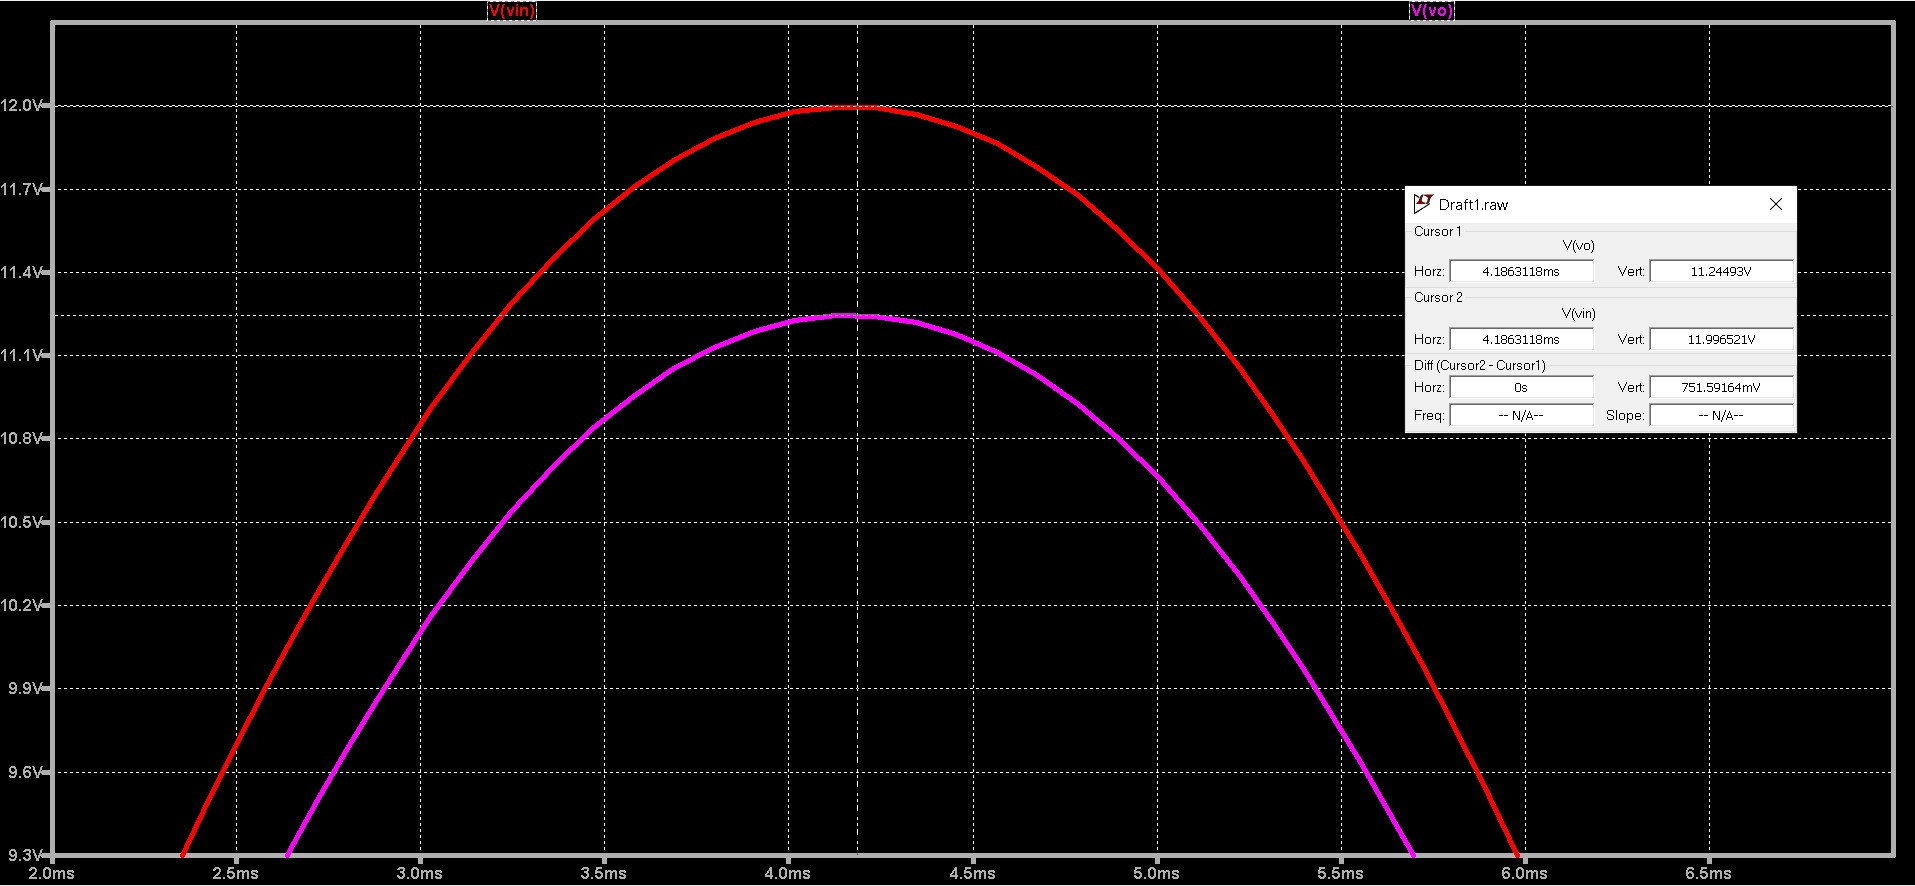
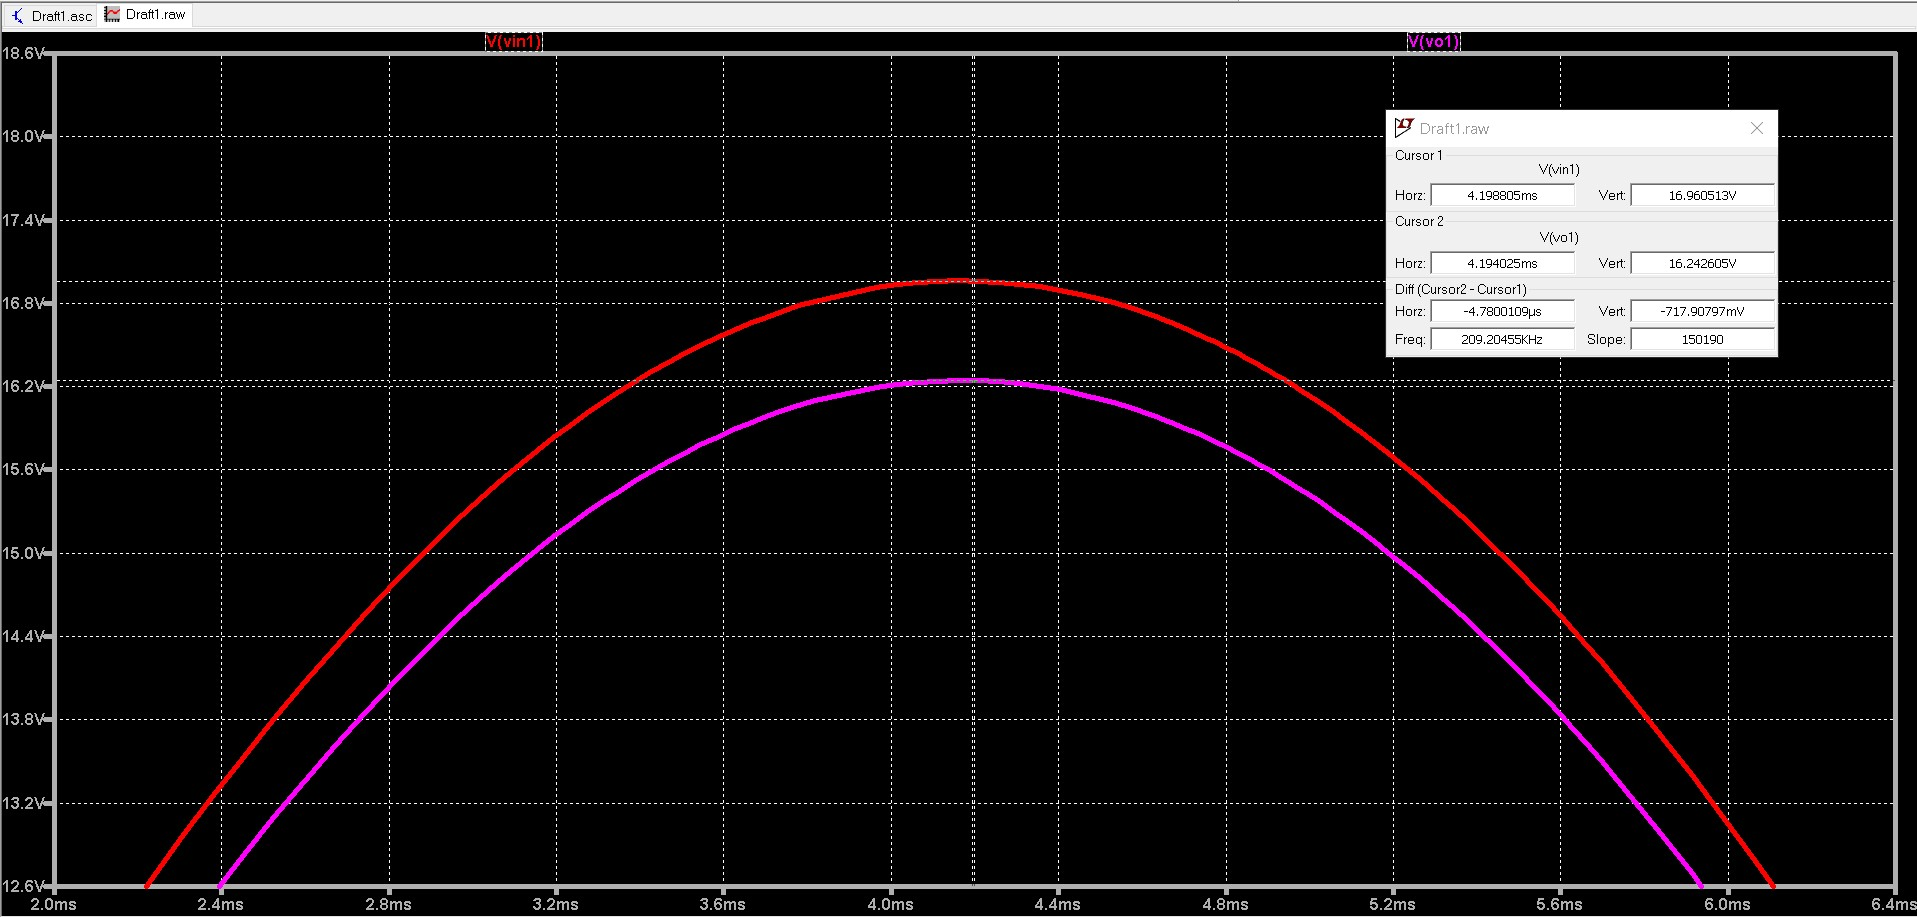
corrigida tensão de entrada na parte 1 do relatório 2

diff --git a/Relatório 2/parte1.md b/Relatório 2/parte1.md
@@ -1,6 +1,6 @@
 # Relatório 2 - Diodos
 
-## Parte 1: Circuito Retificador de Meia Onda
+## Parte 1a: Circuito Retificador de Meia Onda
 
 ###### Experimento:
 
@@ -28,82 +28,73 @@ Utilizar fonte de tensão alternada 12Vp e 60 Hz.
 
 ![p1onda1](/resources/images/relat2/p1onda1.jpg)
 
-#### Formato de onda da tensão no enrolamento secundário (Vin) e da tensão sobre o resistor (Vo)
-
+#### Formato de onda da tensão sobre o resistor (Vo1) e da tensão no enrolamento secundário (Vin1)
+![p1onda2](/resources/images/relat2/p1v01.jpg)
 ![p1onda2](/resources/images/relat2/p1onda2.jpg)
 ![p1onda21](/resources/images/relat2/p1onda21.jpg)
 
-É possível perceber que a onda Vo tem amplitude um pouco menor do que a onda Vin. Isso acontece por conta da queda de tensão de 7,6V sobre o diodo para que o mesmo seja polarizado diretamente. O valor do sinal de tensão Vo é zero nos ciclos negativos de Vin por conta da polarização inversa do diodo.
+É possível perceber que a onda Vo1 tem amplitude um pouco menor do que a onda Vin1. Isso acontece por conta da queda de tensão sobre o diodo, neste caso cerca de 0,72V (pico), para que o mesmo seja polarizado diretamente. O valor do sinal de tensão Vo1 é zero nos ciclos negativos de Vin por conta da polarização inversa do diodo.
 
-#### Valores de tensão média e eficaz sobre o enrolamento secundário (Vin) e o resistor (Vo)
-![p1onda3](/resources/images/relat2/p1onda3.jpg)
-![p1onda31](/resources/images/relat2/p1onda31.jpg)
-
-#### Preenchimento da tabela com os valores solicitados
-![p1tabela1](/resources/images/relat2/p1tabela1.jpg)
+#### Valores de tensão média e eficaz sobre o enrolamento secundário (Vin1) e o resistor (Vo1)
+![p1](/resources/images/relat2/p1media1.jpg)
 
 #### Formato de onda da corrente sobre o diodo (D1)
-![p1onda4](/resources/images/relat2/p1onda4.jpg)
-![p1onda41](/resources/images/relat2/p1onda41.jpg)
+![p1onda4](/resources/images/relat2/p1corrente1.jpg)
+![p1onda41](/resources/images/relat2/p1media2.jpg)
 
-O valor máximo da corrente foi de 41,65mA, o valor médio foi de 12,81mA e o valor eficaz foi de 28,48mA.
+O valor máximo da corrente foi de 60,14mA, o valor médio foi de 18,74mA e o valor eficaz foi de 29,76mA.
 
 ### Simulação: Circuito retificador de meia onda com capacitor de 330μF
 O diodo utilizado nas simulações foi o disponibilizado pelo próprio LTspice.
 ![p1circ2](/resources/images/relat2/p1circ2.jpg)
 
-#### Formato de onda da tensão no enrolamento secundário (Vin) e da tensão sobre o resistor (Vo)
-![p1onda5](/resources/images/relat2/p1onda5.jpg)
-![p1onda6](/resources/images/relat2/p1onda6.jpg)
+#### Formato de onda da tensão no enrolamento secundário (Vin2) e da tensão sobre o resistor (Vo2)
+![p1onda5](/resources/images/relat2/p1onda3.jpg)
+![p1onda6](/resources/images/relat2/p1onda4.jpg)
 
-A adição do capacitor no circuito faz com que a taxa de variação da tensão Vo sobre o resistor diminua consideravelmente.
+A adição do capacitor no circuito faz com que a taxa de variação da tensão Vo sobre o resistor diminua consideravelmente, quando comparado com o circuito sem capacitor.
 
-No ciclo positivo de Vin o capacitor é carregado, e então no seu ciclo negativo o capacitor vai descarregando fazendo com que a tensão sobre o resistor não seja zero (como foi visto no circuito anterior). Quando Vin entrar no ciclo positivo o capacitor vai começar a carregar novamente.
+No ciclo positivo de Vin o capacitor é carregado, e então no seu ciclo negativo o capacitor vai descarregando, fazendo com que a tensão sobre o resistor não seja zero. Quando Vin entra no ciclo positivo o capacitor começa a carregar novamente.
 
-A diferença entre a tensão máxima de Vo e a tensão de Vo quando o capacitor começa a carregar novamente é a tensão de ripple. Nesse caso a tensão de ripple é de 1,73V.
+A diferença entre a tensão máxima de Vo e a tensão de Vo quando o capacitor começa a carregar novamente é a tensão de ripple. Nesse caso a tensão de ripple é de 2,5V.
 
-#### Valores de tensão média e eficaz sobre o resistor (Vo)
-![p1onda7](/resources/images/relat2/p1onda7.jpg)
+#### Valores de tensão média e eficaz sobre o resistor (Vo2)
+![p1onda7](/resources/images/relat2/p1media3.jpg)
 
-#### Preenchimento da tabela com os valores solicitados
-![p1tabela2](/resources/images/relat2/p1tabela2.jpg)
+#### Formato de onda da corrente sobre o diodo (D2)
+![p1onda8](/resources/images/relat2/p1onda5.jpg)
+![p1onda9](/resources/images/relat2/p1media4.jpg)
 
-#### Formato de onda da corrente sobre o diodo (D1)
-![p1onda8](/resources/images/relat2/p1onda8.jpg)
-![p1onda9](/resources/images/relat2/p1onda9.jpg)
-
-O valor máximo da corrente foi de 1,48A, o valor médio foi de 102,06mA e o valor eficaz foi de 317,72mA.
+O valor máximo da corrente foi de 2,09A, o valor médio foi de 147,29mA e o valor eficaz foi de 435,95mA.
 
 ### Simulação: Circuito retificador de meia onda com capacitor de 2200μF
 ![p1circ3](/resources/images/relat2/p1circ3.jpg)
 
 #### Formato de onda da tensão no enrolamento secundário (Vin) e da tensão sobre o resistor (Vo)
-![p1onda10](/resources/images/relat2/p1onda10.jpg)
-![p1onda11](/resources/images/relat2/p1onda11.jpg)
+![p1onda10](/resources/images/relat2/p1onda6.jpg)
+![p1onda11](/resources/images/relat2/p1onda7.jpg)
 
-Com o aumento da capacitância do capacitor do circuito o valor da tensão de ripple diminuiu, sendo de 0,29V.
+Com o aumento da capacitância do capacitor o valor da tensão de ripple diminuiu, sendo de 0,38V com o capacitor de 2200μF.
 
 #### Valores de tensão média e eficaz sobre o resistor (Vo)
-![p1onda12](/resources/images/relat2/p1onda12.jpg)
-
-#### Preenchimento da tabela com os valores solicitados
-![p1tabela3](/resources/images/relat2/p1tabela3.jpg)
+![p1onda12](/resources/images/relat2/p1media5.jpg)
 
 #### Formato de onda da corrente sobre o diodo (D1)
-![p1onda13](/resources/images/relat2/p1onda13.jpg)
-![p1onda14](/resources/images/relat2/p1onda14.jpg)
+![p1onda13](/resources/images/relat2/p1onda8.jpg)
+![p1onda14](/resources/images/relat2/p1media6.jpg)
 
-O valor máximo da corrente foi de 9,90A, o valor médio foi de 522,57mA e o valor eficaz foi de 1,98A.
+O valor máximo da corrente foi de 13,67A, o valor médio foi de 751,82mA e o valor eficaz foi de 2,74A.
 
-### Resistores Shunt
-
-### Circuito para medir corrente
+#### Preenchimento da tabela com os valores solicitados
+![p1tabela3](/resources/images/relat2/p1tabela.jpg)
 
 ### Resultados
-![p1ondaresult](/resources/images/relat2/p1ondaresult.jpg)
+![p1ondaresult](/resources/images/relat2/p1result1.jpg)
 
 Nesta simulação foi observado que ao adicionarmos um capacitor conectado em paralelo ao circuito, é possível manter sobre o resistor um valor de tensão próximo á tensão de pico do enrolamento secundário, porém para diminuir a tensão de ripple é necessário que o valor de capacitância aumente. Deste modo é possível que o formato de onda da tensão do enrolamento secundário seja retificado.
 
-![p1ondaresult2](/resources/images/relat2/p1ondaresult2.jpg)
+![p1ondaresult2](/resources/images/relat2/p1result2.jpg)
 
 Também foi visto que toda vez que o capacitor carrega existe um pico de corrente (sendo maior na primeira vez que é carregado) que aumenta dependendo do valor de capacitância do capacitor. Portanto é importante verificar se os demais componentes do circuito conseguem aguentar esses valores de corrente, mesmo sendo em um intervalo de tempo pequeno.
+
+## Parte 1b:  Resistores Shunt

diff --git a/Relatório 1/teste.md b/Relatório 1/teste.md
@@ -3,3 +3,6 @@ Exemplo de texto
 ## teste2
 
 ### teste2
+foto 1
+
+foto2 
